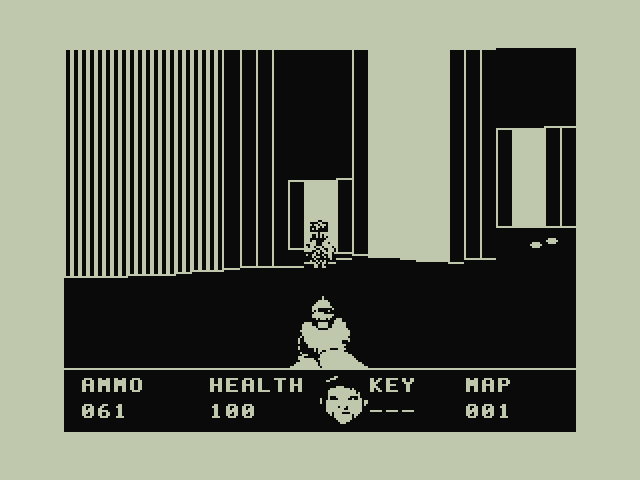
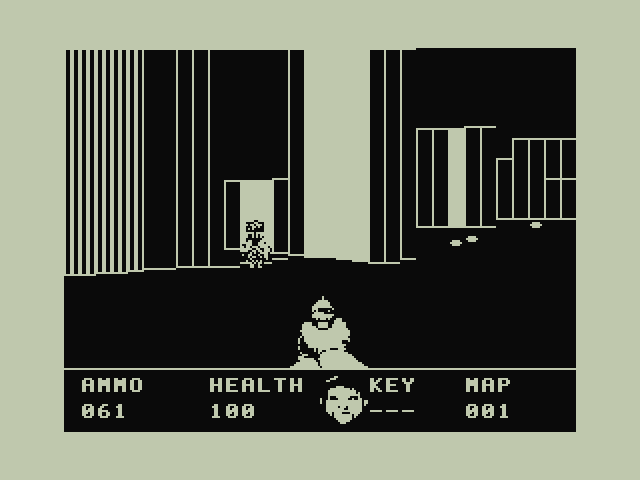
README media: re-record with the clock engine; fireball shot at picture 109
The committed media were recorded with the engine before the level clock.
The clock's CPU shifts where the autopilot is at each fixed picture number, so
they are re-recorded with the committed binary. The fireball shot moves from
picture 141 to 109: no frame of the run now shows a whole fireball in flight,
and 109 shows the ball beside the imp that threw it, half against a light
wall; its alt text says so. The hall shot at 131 shows three small items, and
its alt text now says three. Spawn (3), zombies (90) and the GIF (from 84)
keep their numbers; two runs give byte-identical files.

Changed region(s): [[0.0938, 0.0938, 0.9062, 0.5938]]

diff --git a/README.md b/README.md
@@ -22,7 +22,7 @@ SHA-256 pinned in [`release/expected.json`](release/expected.json).
 | | |
 |---|---|
 | ![Freedoom E1M1 just after the spawn: a long corridor with a distant monster, the pistol and the status bar](docs/media/spawn.png) | ![Three monsters across a room of stepped walls](docs/media/zombies.png) |
-| ![A round fireball flying at the player beside the monster that threw it, past a hatched wall](docs/media/fireball.png) | ![A hall with a hatched wall, a monster standing in a doorway and two small items on the floor](docs/media/hall.png) |
+| ![An imp beside the round fireball it has just thrown, the ball half lost against a light wall](docs/media/fireball.png) | ![A hall with a hatched wall, a monster standing in a doorway and three small items on the floor](docs/media/hall.png) |
 
 *Recorded headless in CLOADM (Dragon 64, PAL, no ROMs) from the Freedoom
 E1M1 level disk. The level data is converted from [Freedoom](https://freedoom.github.io)
